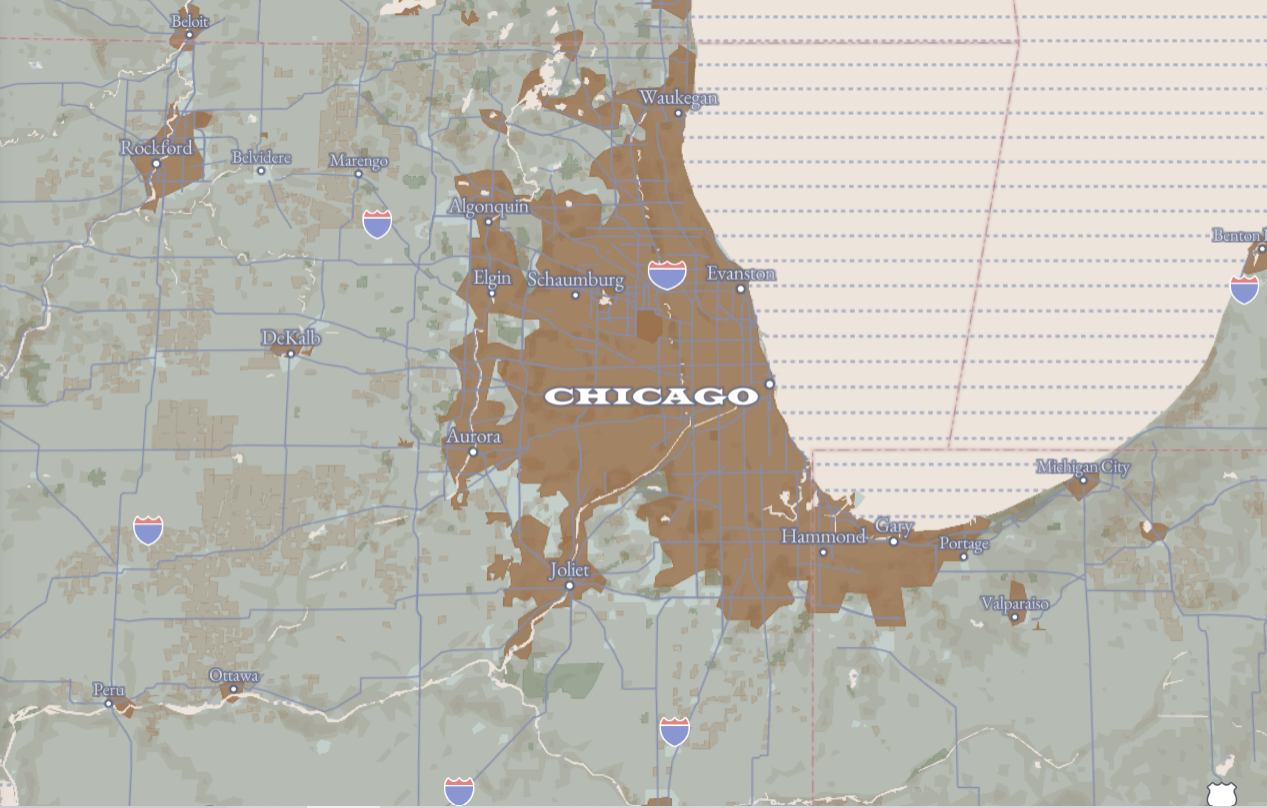
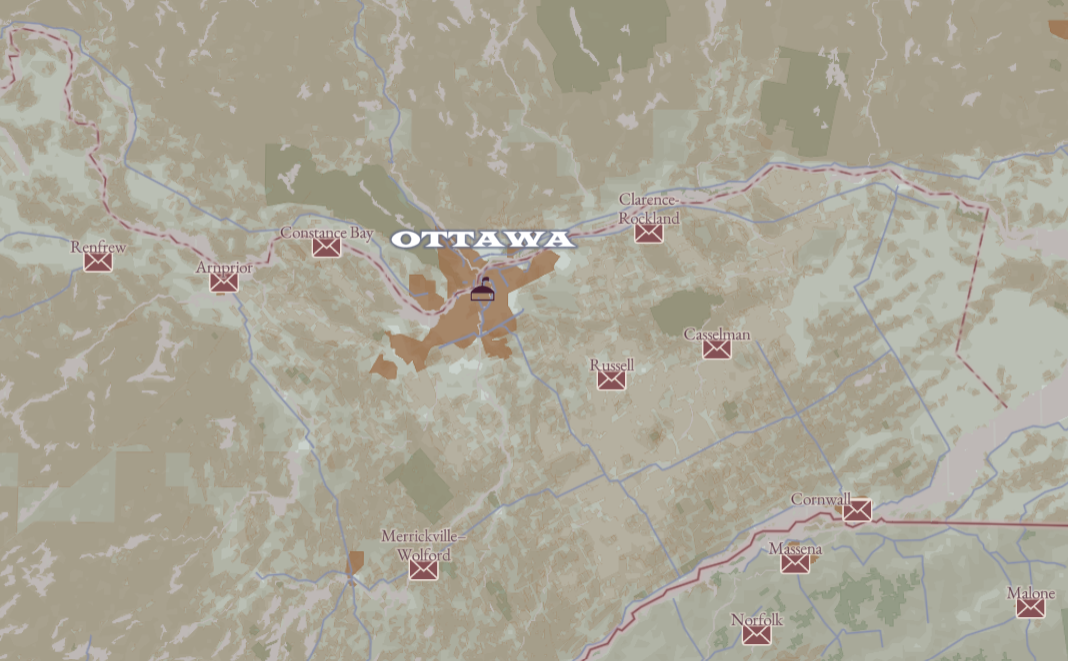
Change of API & Screenshot

diff --git a/index.html b/index.html
@@ -127,8 +127,8 @@
         <!--mapbox iframe-->
         <div class="row">
             <div class="center-wide">
-                <p>Move around the map and explore the styles at various zoom levels.</p>
-                <iframe class="fit" height="500" src="https://api.mapbox.com/styles/v1/sid-maps/cla8cgqdl001q14qvk67jfa8c.html?title=view&access_token=pk.eyJ1Ijoic2lkLW1hcHMiLCJhIjoiY2xhOGNjdDhvMDJkMTNvcGRtejBxZHd6OSJ9.zUlz-wzQ1leAOh22rGDTnA&zoomwheel=true&fresh=true#1.19/23.8/-86.1/0/4" ></iframe>
+                <p>Play around with slippy map designed in map box and explore the style changes at each zoom level.</p>
+                <iframe class="fit" height="500" src="https://api.mapbox.com/styles/v1/sid-maps/cla8cgqdl001q14qvk67jfa8c.html?title=view&access_token=pk.eyJ1Ijoic2lkLW1hcHMiLCJhIjoiY2xhOGNjdDhvMDJkMTNvcGRtejBxZHd6OSJ9.zUlz-wzQ1leAOh22rGDTnA&zoomwheel=true&fresh=true#1.16/12.1/-108.9/0/4" ></iframe>
             </div>
         </div>
     </div>
